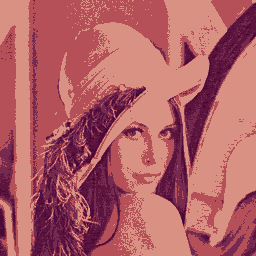
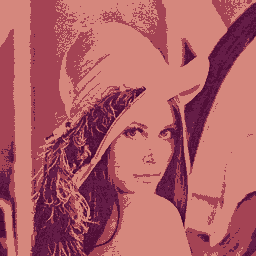
Constants & refactoring

diff --git a/image-clusterisation/png.py b/image-clusterisation/png.py
@@ -2,7 +2,10 @@ import random
 import numpy as np
 from PIL import Image
 
-def knn(coords, iterations_count, clusters_count=256, shape=3):
+CLUSTERS_COUNT = 64
+LOOPS_COUNT = 5
+
+def knn(coords, iterations_count, clusters_count=CLUSTERS_COUNT, shape=3):
     rand = lambda: random.randint(0, 30)
     rand_pos = lambda: [rand() for _ in range(shape)]
 
@@ -11,6 +14,8 @@ def knn(coords, iterations_count, clusters_count=256, shape=3):
     centers = [rand_pos() for _ in range(clusters_count)]
 
     for i in range(iterations_count):
+        print(i + 1, 'loop')
+
         # Update colors
         for j in range(points_count):
             min_dist = float('inf')
@@ -32,7 +37,7 @@ def knn(coords, iterations_count, clusters_count=256, shape=3):
 
             colors[j] = best_cent
 
-        print(i, 1)
+        print('Colors updated')
 
         # Update centers
         for j in range(clusters_count):
@@ -47,7 +52,7 @@ def knn(coords, iterations_count, clusters_count=256, shape=3):
             divide_list = lambda x: x / cnt
             centers[j] = list(map(divide_list, coords_sum)) if cnt else rand_pos()
 
-        print(i, 2)
+        print('Centers updated')
 
     return centers, colors
 
@@ -57,8 +62,7 @@ def main():
     without_alpha = lambda x: x[:-1]
     arr = list(map(without_alpha, im.getdata()))
 
-
-    centers, colors = knn(arr, 6)
+    centers, colors = knn(arr, LOOPS_COUNT)
 
     def fill_with_centers(coords, centers, colors):
         res_coords = coords[:]
@@ -68,14 +72,7 @@ def main():
 
         return res_coords
 
-    def array_from_list(l):
-        # c = [[0] * k * im.width for i in range(k * im.height)]
-        # return np.asarray(c)
-        res = np.array([])
-        
-
     res_coords = fill_with_centers(arr, centers, colors)
-    # res_coords = arr
 
     res_coords = np.array([res_coords], dtype=np.uint8)
     res_coords.resize((256, 256, 3))
